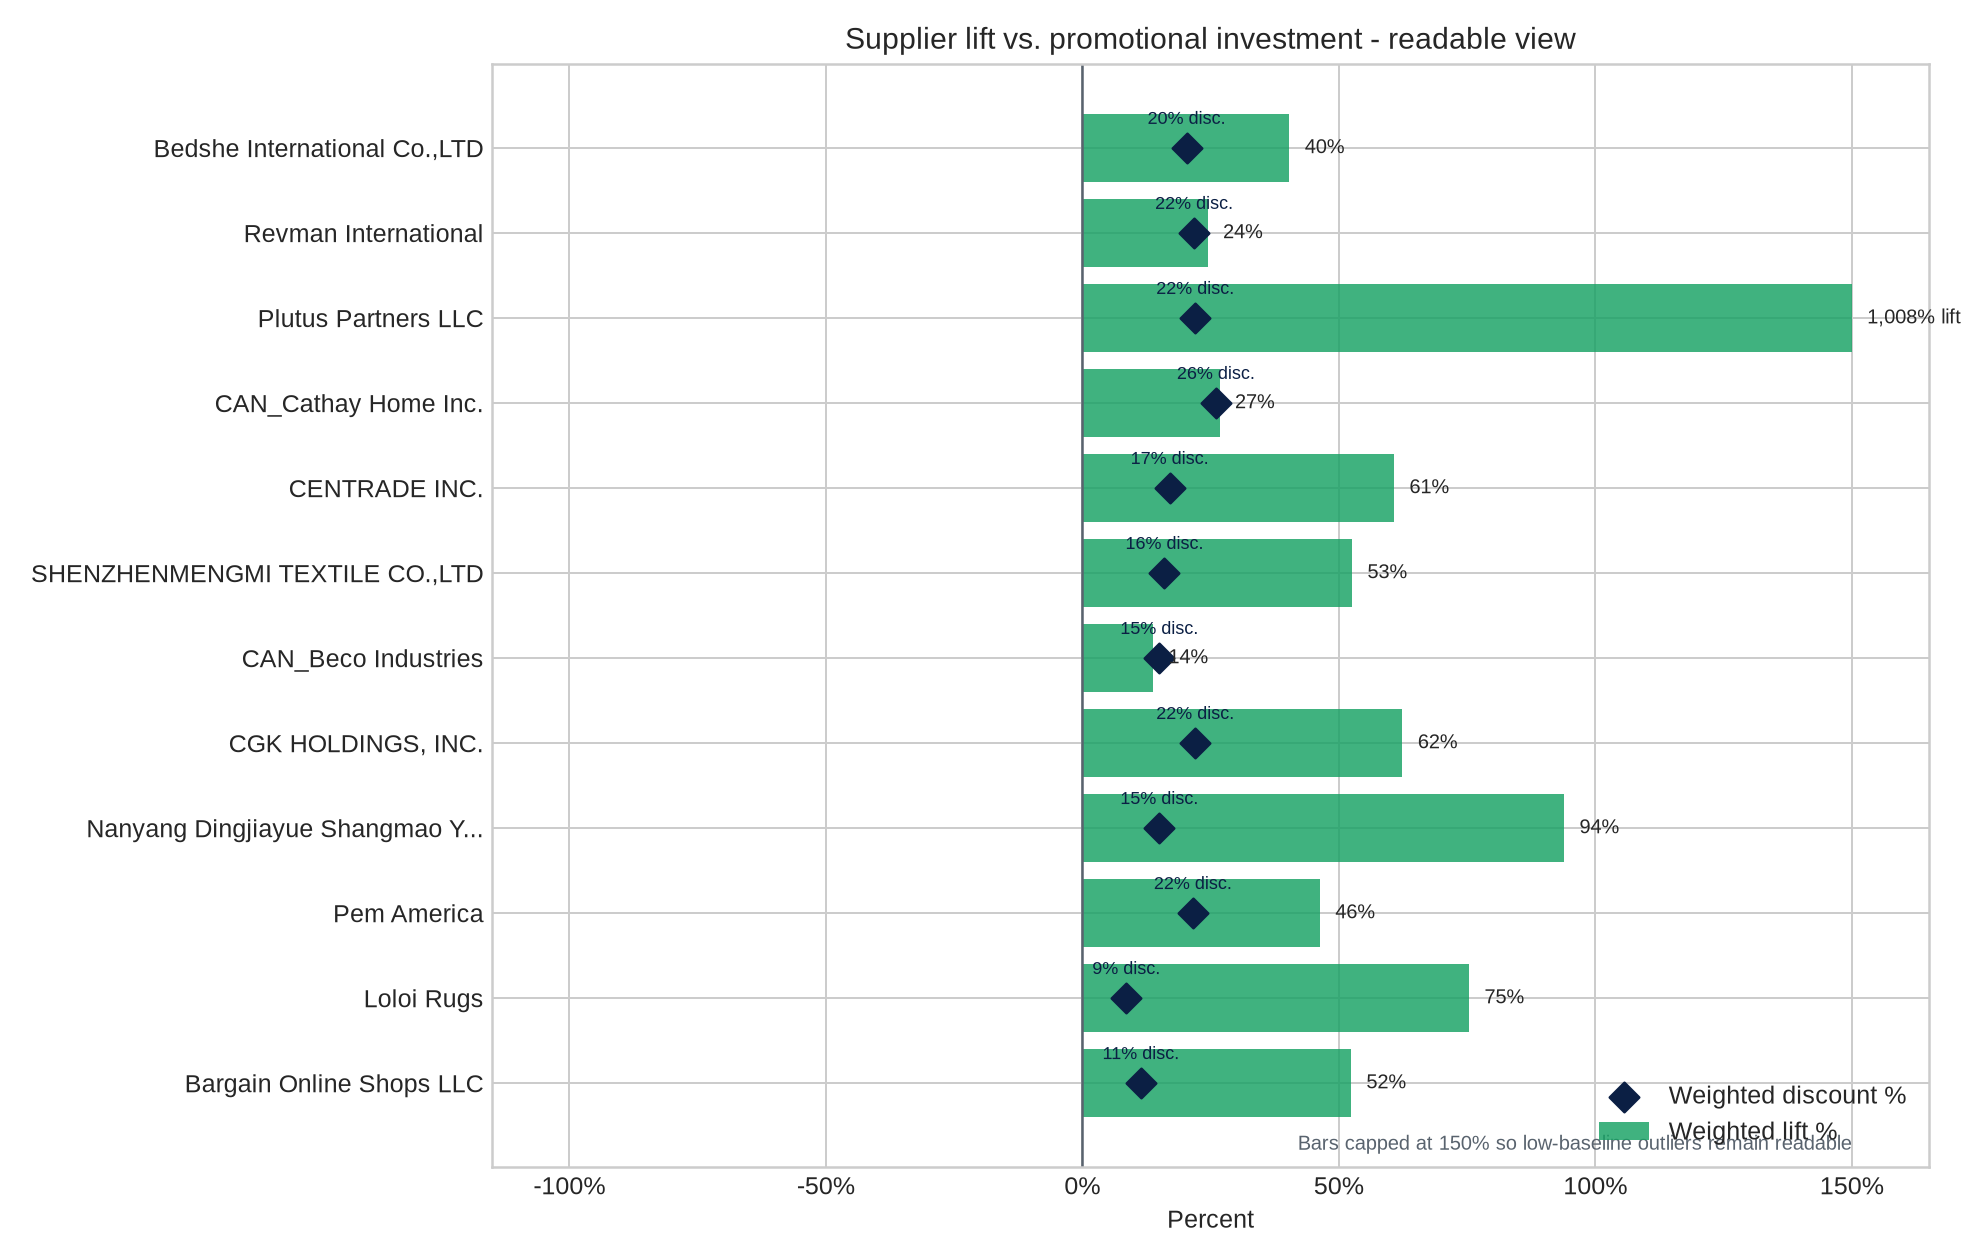
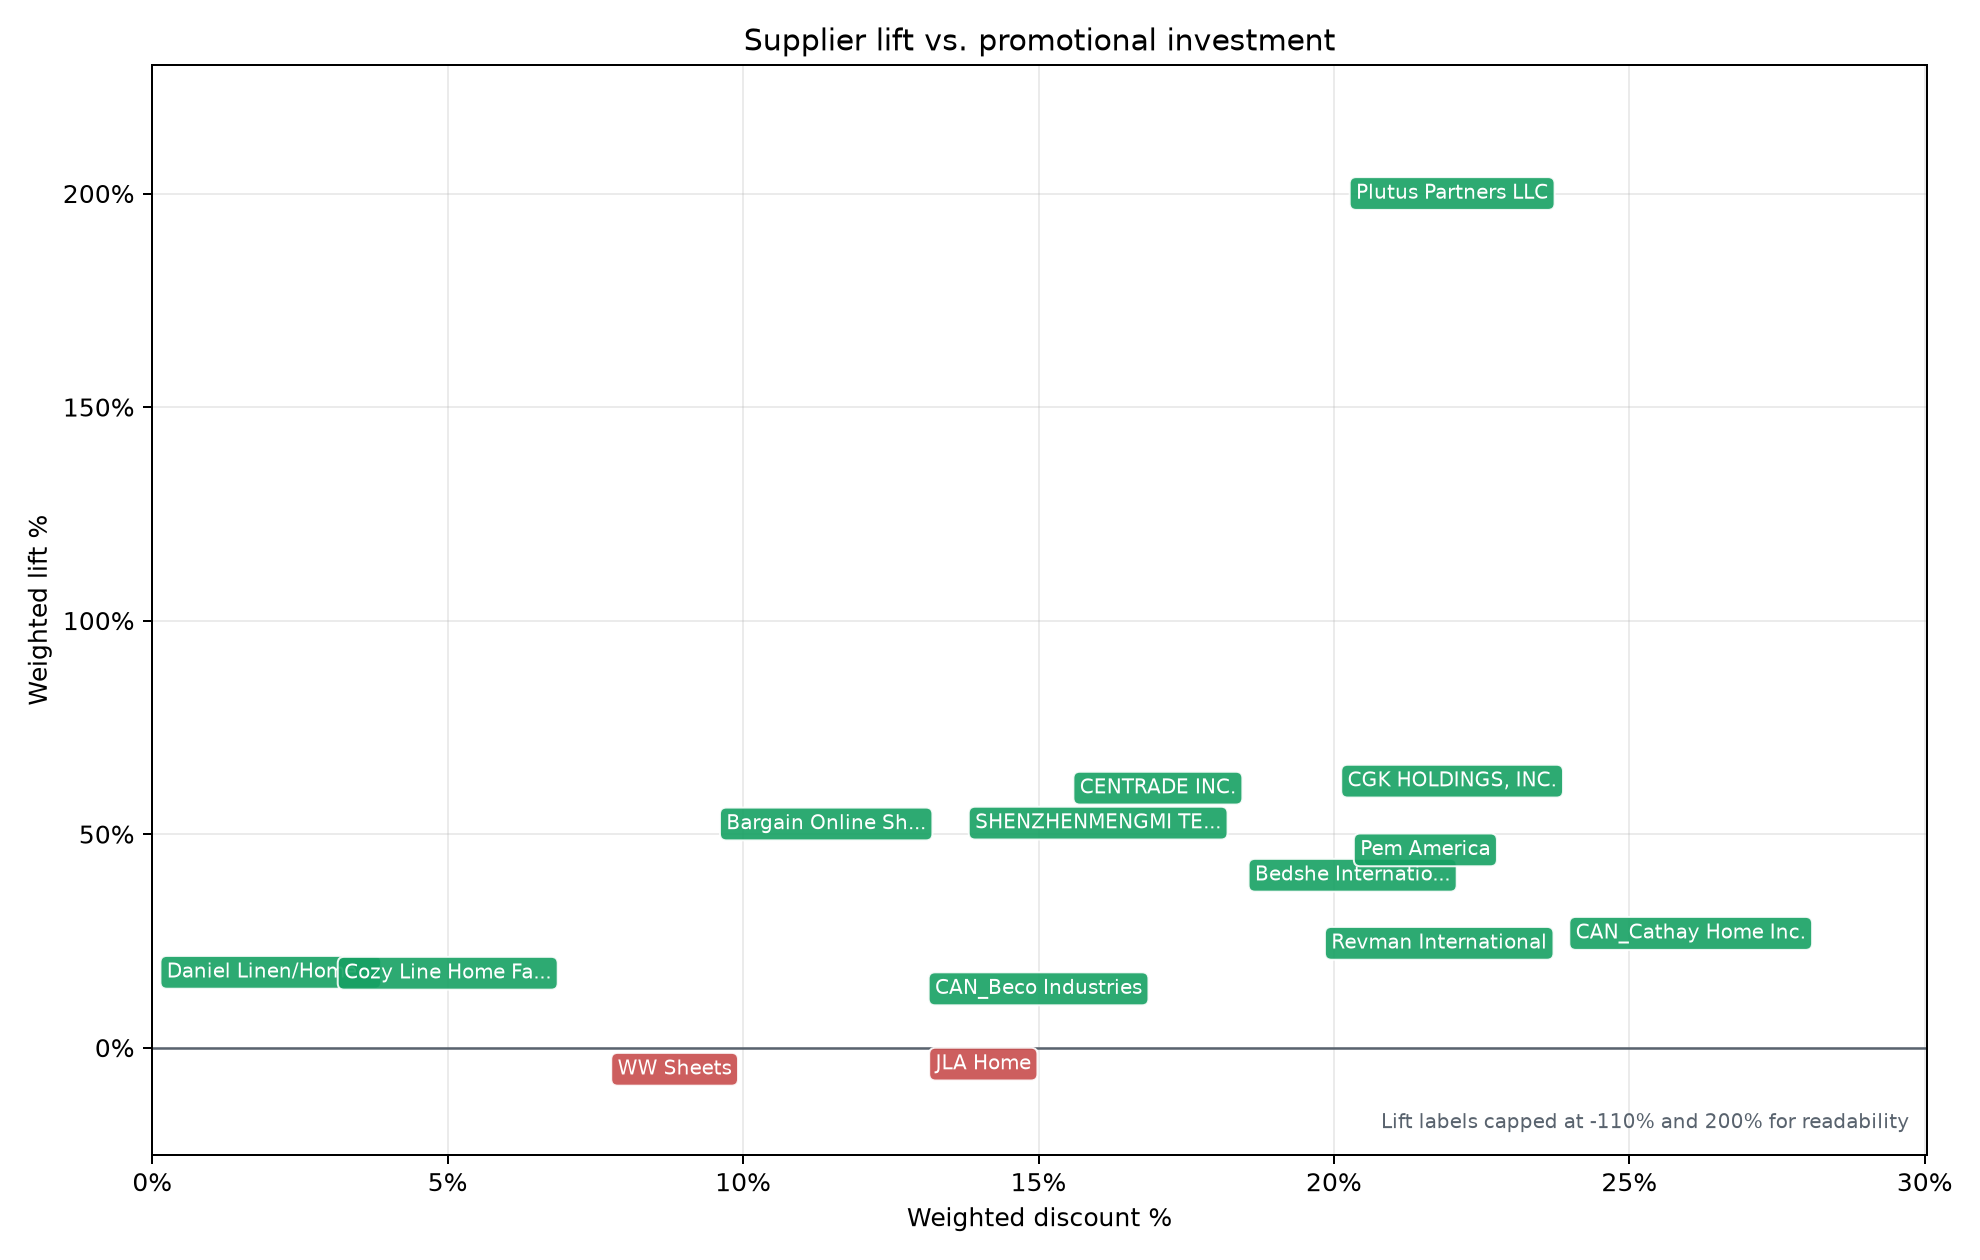
Plot supplier lift against discount

diff --git a/analysis/member_monday/build_case_study.py b/analysis/member_monday/build_case_study.py
@@ -319,75 +319,66 @@ def save_chart_supplier_scatter(supplier_summary: pd.DataFrame, out: Path) -> No
         & supplier_summary["weighted_discount_pct"].notna()
         & supplier_summary["weighted_lift_pct"].notna()
     ].copy()
-    plot_df = plot_df.sort_values("incremental_sales", ascending=True).tail(12)
+    plot_df = plot_df.sort_values("member_monday_sales", ascending=False).head(14)
     plot_df["lift_pct"] = plot_df["weighted_lift_pct"] * 100
     plot_df["discount_pct"] = plot_df["weighted_discount_pct"] * 100
-    plot_df["display_lift_pct"] = plot_df["lift_pct"].clip(lower=-110, upper=150)
+    plot_df["display_lift_pct"] = plot_df["lift_pct"].clip(lower=-110, upper=200)
     plot_df["display_name"] = plot_df["supplier_name"].map(
-        lambda name: name if len(name) <= 32 else name[:29] + "..."
+        lambda name: name if len(name) <= 20 else name[:17] + "..."
     )
 
-    colors = [
-        "#16a163" if value > 0 else "#c84c4c" if value < 0 else "#9aa6b2"
-        for value in plot_df["incremental_sales"]
-    ]
-    y_positions = range(len(plot_df))
     fig, ax = plt.subplots(figsize=(11, 7))
-    ax.barh(
-        list(y_positions),
-        plot_df["display_lift_pct"],
-        color=colors,
-        alpha=0.82,
-        label="Weighted lift %",
-    )
-    ax.scatter(
-        plot_df["discount_pct"],
-        list(y_positions),
-        marker="D",
-        s=70,
-        color="#0b1f44",
-        label="Weighted discount %",
-        zorder=3,
-    )
-    ax.axvline(0, color="#59636e", linewidth=1)
-    ax.set_yticks(list(y_positions), plot_df["display_name"])
-    ax.set_xlabel("Percent")
-    ax.set_title("Supplier lift vs. promotional investment - readable view")
+    ax.axhline(0, color="#59636e", linewidth=1)
+    ax.grid(True, axis="both", alpha=0.25)
+    ax.set_xlabel("Weighted discount %")
+    ax.set_ylabel("Weighted lift %")
+    ax.set_title("Supplier lift vs. promotional investment")
     ax.xaxis.set_major_formatter(lambda x, _pos: f"{x:.0f}%")
-    ax.set_xlim(-115, 165)
-    ax.legend(loc="lower right")
+    ax.yaxis.set_major_formatter(lambda y, _pos: f"{y:.0f}%")
 
-    for idx, row in enumerate(plot_df.itertuples()):
-        lift_label = f"{row.lift_pct:,.0f}%"
-        if row.lift_pct > 150:
-            lift_label += " lift"
-        x_pos = row.display_lift_pct + 3 if row.display_lift_pct >= 0 else row.display_lift_pct - 3
-        ax.text(
-            x_pos,
-            idx,
-            lift_label,
-            ha="left" if row.display_lift_pct >= 0 else "right",
-            va="center",
-            fontsize=8,
+    x_min = max(0, plot_df["discount_pct"].min() - 3)
+    x_max = plot_df["discount_pct"].max() + 4
+    ax.set_xlim(x_min, x_max)
+    ax.set_ylim(
+        min(-20, plot_df["display_lift_pct"].min() - 20),
+        max(60, plot_df["display_lift_pct"].max() + 30),
+    )
+
+    for row in plot_df.itertuples():
+        facecolor = (
+            "#16a163"
+            if row.incremental_sales > 0
+            else "#c84c4c"
+            if row.incremental_sales < 0
+            else "#9aa6b2"
         )
         ax.text(
             row.discount_pct,
-            idx + 0.24,
-            f"{row.discount_pct:.0f}% disc.",
+            row.display_lift_pct,
+            row.display_name,
             ha="center",
-            va="bottom",
-            fontsize=7,
-            color="#0b1f44",
+            va="center",
+            fontsize=8,
+            color="white",
+            bbox={
+                "boxstyle": "round,pad=0.32",
+                "facecolor": facecolor,
+                "edgecolor": "white",
+                "linewidth": 0.8,
+                "alpha": 0.9,
+            },
         )
-    ax.text(
-        150,
-        -0.72,
-        "Bars capped at 150% so low-baseline outliers remain readable",
-        ha="right",
-        va="center",
-        fontsize=8,
-        color="#59636e",
-    )
+    if (plot_df["lift_pct"] != plot_df["display_lift_pct"]).any():
+        ax.text(
+            0.99,
+            0.02,
+            "Lift labels capped at -110% and 200% for readability",
+            ha="right",
+            va="bottom",
+            transform=ax.transAxes,
+            fontsize=8,
+            color="#59636e",
+        )
     fig.tight_layout()
     fig.savefig(out, dpi=180)
     plt.close(fig)

diff --git a/analysis/member_monday_bedding/build_case_study.py b/analysis/member_monday_bedding/build_case_study.py
@@ -306,75 +306,66 @@ def save_chart_supplier_scatter(supplier_summary: pd.DataFrame, out: Path) -> No
         & supplier_summary["weighted_discount_pct"].notna()
         & supplier_summary["weighted_lift_pct"].notna()
     ].copy()
-    plot_df = plot_df.sort_values("incremental_sales", ascending=True).tail(12)
+    plot_df = plot_df.sort_values("member_monday_sales", ascending=False).head(14)
     plot_df["lift_pct"] = plot_df["weighted_lift_pct"] * 100
     plot_df["discount_pct"] = plot_df["weighted_discount_pct"] * 100
-    plot_df["display_lift_pct"] = plot_df["lift_pct"].clip(lower=-110, upper=150)
+    plot_df["display_lift_pct"] = plot_df["lift_pct"].clip(lower=-110, upper=200)
     plot_df["display_name"] = plot_df["supplier_name"].map(
-        lambda name: name if len(name) <= 32 else name[:29] + "..."
+        lambda name: name if len(name) <= 20 else name[:17] + "..."
     )
 
-    colors = [
-        "#16a163" if value > 0 else "#c84c4c" if value < 0 else "#9aa6b2"
-        for value in plot_df["incremental_sales"]
-    ]
-    y_positions = range(len(plot_df))
     fig, ax = plt.subplots(figsize=(11, 7))
-    ax.barh(
-        list(y_positions),
-        plot_df["display_lift_pct"],
-        color=colors,
-        alpha=0.82,
-        label="Weighted lift %",
-    )
-    ax.scatter(
-        plot_df["discount_pct"],
-        list(y_positions),
-        marker="D",
-        s=70,
-        color="#0b1f44",
-        label="Weighted discount %",
-        zorder=3,
-    )
-    ax.axvline(0, color="#59636e", linewidth=1)
-    ax.set_yticks(list(y_positions), plot_df["display_name"])
-    ax.set_xlabel("Percent")
-    ax.set_title("Supplier lift vs. promotional investment - readable view")
+    ax.axhline(0, color="#59636e", linewidth=1)
+    ax.grid(True, axis="both", alpha=0.25)
+    ax.set_xlabel("Weighted discount %")
+    ax.set_ylabel("Weighted lift %")
+    ax.set_title("Supplier lift vs. promotional investment")
     ax.xaxis.set_major_formatter(lambda x, _pos: f"{x:.0f}%")
-    ax.set_xlim(-115, 165)
-    ax.legend(loc="lower right")
+    ax.yaxis.set_major_formatter(lambda y, _pos: f"{y:.0f}%")
 
-    for idx, row in enumerate(plot_df.itertuples()):
-        lift_label = f"{row.lift_pct:,.0f}%"
-        if row.lift_pct > 150:
-            lift_label += " lift"
-        x_pos = row.display_lift_pct + 3 if row.display_lift_pct >= 0 else row.display_lift_pct - 3
-        ax.text(
-            x_pos,
-            idx,
-            lift_label,
-            ha="left" if row.display_lift_pct >= 0 else "right",
-            va="center",
-            fontsize=8,
+    x_min = max(0, plot_df["discount_pct"].min() - 3)
+    x_max = plot_df["discount_pct"].max() + 4
+    ax.set_xlim(x_min, x_max)
+    ax.set_ylim(
+        min(-20, plot_df["display_lift_pct"].min() - 20),
+        max(60, plot_df["display_lift_pct"].max() + 30),
+    )
+
+    for row in plot_df.itertuples():
+        facecolor = (
+            "#16a163"
+            if row.incremental_sales > 0
+            else "#c84c4c"
+            if row.incremental_sales < 0
+            else "#9aa6b2"
         )
         ax.text(
             row.discount_pct,
-            idx + 0.24,
-            f"{row.discount_pct:.0f}% disc.",
+            row.display_lift_pct,
+            row.display_name,
             ha="center",
-            va="bottom",
-            fontsize=7,
-            color="#0b1f44",
+            va="center",
+            fontsize=8,
+            color="white",
+            bbox={
+                "boxstyle": "round,pad=0.32",
+                "facecolor": facecolor,
+                "edgecolor": "white",
+                "linewidth": 0.8,
+                "alpha": 0.9,
+            },
         )
-    ax.text(
-        150,
-        -0.72,
-        "Bars capped at 150% so low-baseline outliers remain readable",
-        ha="right",
-        va="center",
-        fontsize=8,
-        color="#59636e",
-    )
+    if (plot_df["lift_pct"] != plot_df["display_lift_pct"]).any():
+        ax.text(
+            0.99,
+            0.02,
+            "Lift labels capped at -110% and 200% for readability",
+            ha="right",
+            va="bottom",
+            transform=ax.transAxes,
+            fontsize=8,
+            color="#59636e",
+        )
     fig.tight_layout()
     fig.savefig(out, dpi=180)
     plt.close(fig)
